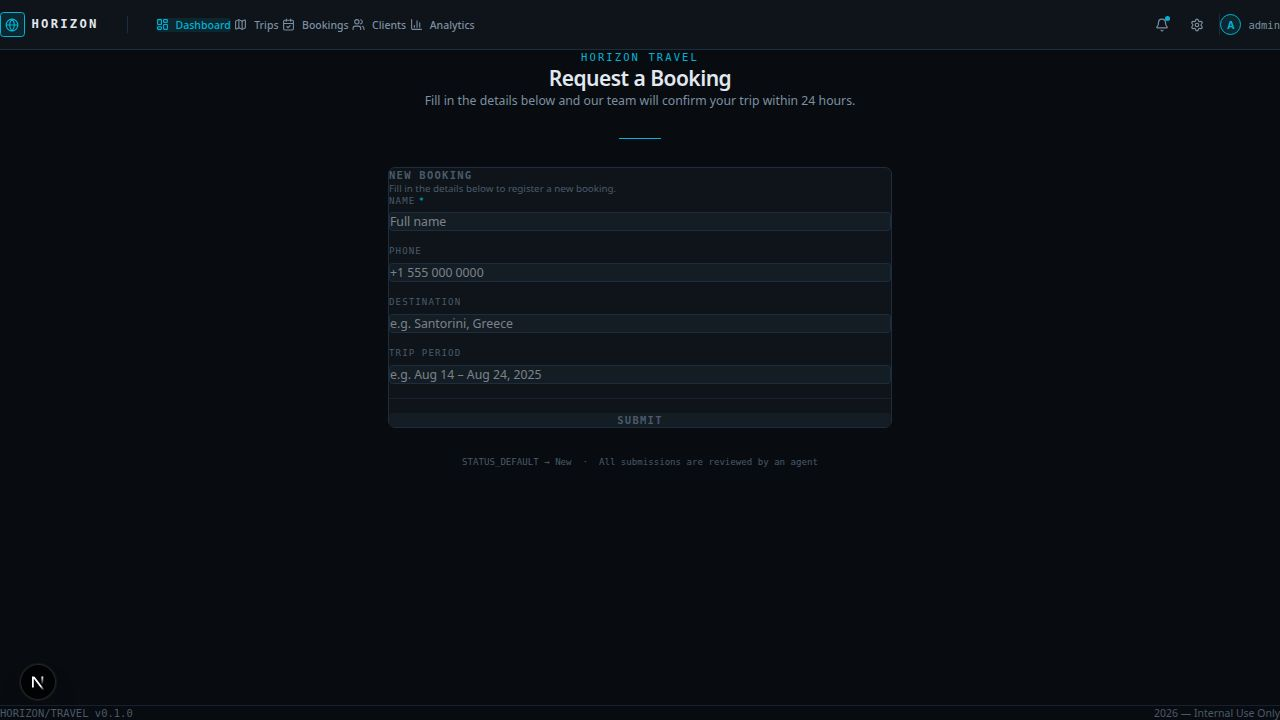
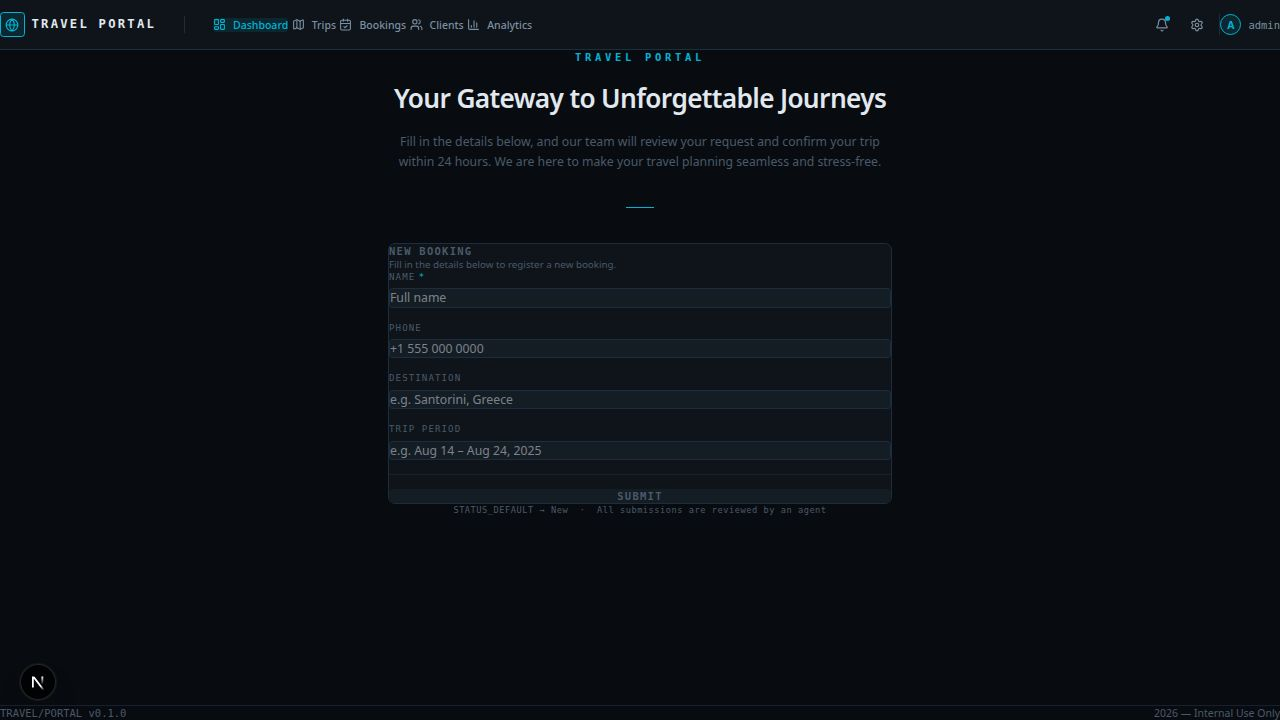
Ensure the application loads directly to the dashboard and fix workflow issues
Add the missing `_not-found/page` route to the build manifest and update cache hashes to resolve application loading and workflow errors.

Replit-Commit-Author: Agent
Replit-Commit-Session-Id: 0fe00be1-4f11-4a60-8181-e56c559750af
Replit-Commit-Checkpoint-Type: full_checkpoint
Replit-Commit-Event-Id: ce4cdc06-059d-438c-85b4-8cf6e5ef69f5
Replit-Commit-Screenshot-Url: https://storage.googleapis.com/screenshot-production-us-central1/ad40acbe-b18b-48dc-98ba-85900373a7f5/0fe00be1-4f11-4a60-8181-e56c559750af/n5spYEi

diff --git a/artifacts/travel-agency/.next/static/chunks/app/_not-found/page.js b/artifacts/travel-agency/.next/static/chunks/app/_not-found/page.js
@@ -1,0 +1,61 @@
+/*
+ * ATTENTION: An "eval-source-map" devtool has been used.
+ * This devtool is neither made for production nor for readable output files.
+ * It uses "eval()" calls to create a separate source file with attached SourceMaps in the browser devtools.
+ * If you are trying to read the output file, select a different devtool (https://webpack.js.org/configuration/devtool/)
+ * or disable the default devtool with "devtool: false".
+ * If you are looking for production-ready output files, see mode: "production" (https://webpack.js.org/configuration/mode/).
+ */
+(self["webpackChunk_N_E"] = self["webpackChunk_N_E"] || []).push([["app/_not-found/page"],{
+
+/***/ "(app-pages-browser)/../../node_modules/.pnpm/next@15.5.19_react-dom@19.1.0_react@19.1.0__react@19.1.0/node_modules/next/dist/build/webpack/loaders/next-client-pages-loader.js?absolutePagePath=%2Fhome%2Frunner%2Fworkspace%2Fnode_modules%2F.pnpm%2Fnext%4015.5.19_react-dom%4019.1.0_react%4019.1.0__react%4019.1.0%2Fnode_modules%2Fnext%2Fdist%2Fclient%2Fcomponents%2Fbuiltin%2Fglobal-not-found.js&page=%2F_not-found%2Fpage!":
+/*!************************************************************************************************************************************************************************************************************************************************************************************************************************************************************************************************************************!*\
+  !*** ../../node_modules/.pnpm/next@15.5.19_react-dom@19.1.0_react@19.1.0__react@19.1.0/node_modules/next/dist/build/webpack/loaders/next-client-pages-loader.js?absolutePagePath=%2Fhome%2Frunner%2Fworkspace%2Fnode_modules%2F.pnpm%2Fnext%4015.5.19_react-dom%4019.1.0_react%4019.1.0__react%4019.1.0%2Fnode_modules%2Fnext%2Fdist%2Fclient%2Fcomponents%2Fbuiltin%2Fglobal-not-found.js&page=%2F_not-found%2Fpage! ***!
+  \************************************************************************************************************************************************************************************************************************************************************************************************************************************************************************************************************************/
+/***/ ((module, __unused_webpack_exports, __webpack_require__) => {
+
[1 lines of base64/hex data omitted]
+
+/***/ }),
+
+/***/ "(app-pages-browser)/../../node_modules/.pnpm/next@15.5.19_react-dom@19.1.0_react@19.1.0__react@19.1.0/node_modules/next/dist/client/components/builtin/global-not-found.js":
+/*!**************************************************************************************************************************************************************!*\
+  !*** ../../node_modules/.pnpm/next@15.5.19_react-dom@19.1.0_react@19.1.0__react@19.1.0/node_modules/next/dist/client/components/builtin/global-not-found.js ***!
+  \**************************************************************************************************************************************************************/
+/***/ ((module, exports, __webpack_require__) => {
+
+"use strict";
[1 lines of base64/hex data omitted]
+
+/***/ }),
+
+/***/ "(app-pages-browser)/../../node_modules/.pnpm/next@15.5.19_react-dom@19.1.0_react@19.1.0__react@19.1.0/node_modules/next/dist/client/components/http-access-fallback/error-fallback.js":
+/*!*************************************************************************************************************************************************************************!*\
+  !*** ../../node_modules/.pnpm/next@15.5.19_react-dom@19.1.0_react@19.1.0__react@19.1.0/node_modules/next/dist/client/components/http-access-fallback/error-fallback.js ***!
+  \*************************************************************************************************************************************************************************/
+/***/ ((module, exports, __webpack_require__) => {
+
+"use strict";
[1 lines of base64/hex data omitted]
+
+/***/ }),
+
+/***/ "(app-pages-browser)/../../node_modules/.pnpm/next@15.5.19_react-dom@19.1.0_react@19.1.0__react@19.1.0/node_modules/next/dist/client/components/styles/access-error-styles.js":
+/*!****************************************************************************************************************************************************************!*\
+  !*** ../../node_modules/.pnpm/next@15.5.19_react-dom@19.1.0_react@19.1.0__react@19.1.0/node_modules/next/dist/client/components/styles/access-error-styles.js ***!
+  \****************************************************************************************************************************************************************/
+/***/ ((module, exports, __webpack_require__) => {
+
+"use strict";
[1 lines of base64/hex data omitted]
+
+/***/ })
+
+},
+/******/ __webpack_require__ => { // webpackRuntimeModules
+/******/ var __webpack_exec__ = (moduleId) => (__webpack_require__(__webpack_require__.s = moduleId))
+/******/ __webpack_require__.O(0, ["main-app"], () => (__webpack_exec__("(app-pages-browser)/../../node_modules/.pnpm/next@15.5.19_react-dom@19.1.0_react@19.1.0__react@19.1.0/node_modules/next/dist/build/webpack/loaders/next-client-pages-loader.js?absolutePagePath=%2Fhome%2Frunner%2Fworkspace%2Fnode_modules%2F.pnpm%2Fnext%4015.5.19_react-dom%4019.1.0_react%4019.1.0__react%4019.1.0%2Fnode_modules%2Fnext%2Fdist%2Fclient%2Fcomponents%2Fbuiltin%2Fglobal-not-found.js&page=%2F_not-found%2Fpage!")));
+/******/ var __webpack_exports__ = __webpack_require__.O();
+/******/ _N_E = __webpack_exports__;
+/******/ }
+]);

diff --git a/artifacts/travel-agency/.next/static/webpack/app/layout.33d17cfd87281c41.hot-update.js b/artifacts/travel-agency/.next/static/webpack/app/layout.33d17cfd87281c41.hot-update.js
@@ -1,0 +1,22 @@
+"use strict";
+/*
+ * ATTENTION: An "eval-source-map" devtool has been used.
+ * This devtool is neither made for production nor for readable output files.
+ * It uses "eval()" calls to create a separate source file with attached SourceMaps in the browser devtools.
+ * If you are trying to read the output file, select a different devtool (https://webpack.js.org/configuration/devtool/)
+ * or disable the default devtool with "devtool: false".
+ * If you are looking for production-ready output files, see mode: "production" (https://webpack.js.org/configuration/mode/).
+ */
+self["webpackHotUpdate_N_E"]("app/layout",{
+
+/***/ "(app-pages-browser)/./app/globals.css":
+/*!*************************!*\
+  !*** ./app/globals.css ***!
+  \*************************/
+/***/ ((module, __webpack_exports__, __webpack_require__) => {
+
[1 lines of base64/hex data omitted]
+
+/***/ })
+
+});

diff --git a/artifacts/travel-agency/.next/static/webpack/webpack.33d17cfd87281c41.hot-update.js b/artifacts/travel-agency/.next/static/webpack/webpack.33d17cfd87281c41.hot-update.js
@@ -1,0 +1,12 @@
+"use strict";
+self["webpackHotUpdate_N_E"]("webpack",{},
+/******/ function(__webpack_require__) { // webpackRuntimeModules
+/******/ /* webpack/runtime/getFullHash */
+/******/ (() => {
+/******/ 	__webpack_require__.h = () => ("95a952b913b8a0d8")
+/******/ })();
+/******/ 
+/******/ }
+)
[1 lines of base64/hex data omitted]
+;

diff --git a/artifacts/travel-agency/.next/server/webpack-runtime.js b/artifacts/travel-agency/.next/server/webpack-runtime.js
@@ -117,7 +117,7 @@
 /******/ 	
 /******/ 	/* webpack/runtime/getFullHash */
 /******/ 	(() => {
-/******/ 		__webpack_require__.h = () => ("e7346cf729319479")
+/******/ 		__webpack_require__.h = () => ("49ed8f3984db7e68")
 /******/ 	})();
 /******/ 	
 /******/ 	/* webpack/runtime/hasOwnProperty shorthand */
@@ -205,5 +205,5 @@
 /******/ 	
 /******/ })()
 
[2 lines of base64/hex data omitted]
 ;

diff --git a/artifacts/travel-agency/.next/server/app/page.js b/artifacts/travel-agency/.next/server/app/page.js
@@ -310,7 +310,7 @@ module.exports = require("util");
 var __webpack_require__ = require("../webpack-runtime.js");
 __webpack_require__.C(exports);
 var __webpack_exec__ = (moduleId) => (__webpack_require__(__webpack_require__.s = moduleId))
-var __webpack_exports__ = __webpack_require__.X(0, ["vendor-chunks/next@15.5.19_react-dom@19.1.0_react@19.1.0__react@19.1.0","vendor-chunks/lucide-react@0.545.0_react@19.1.0","vendor-chunks/@swc+helpers@0.5.15","vendor-chunks/tailwind-merge@3.6.0","vendor-chunks/clsx@2.1.1"], () => (__webpack_exec__("(rsc)/../../node_modules/.pnpm/next@15.5.19_react-dom@19.1.0_react@19.1.0__react@19.1.0/node_modules/next/dist/build/webpack/loaders/next-app-loader/index.js?name=app%2Fpage&page=%2Fpage&appPaths=%2Fpage&pagePath=private-next-app-dir%2Fpage.tsx&appDir=%2Fhome%2Frunner%2Fworkspace%2Fartifacts%2Ftravel-agency%2Fapp&pageExtensions=tsx&pageExtensions=ts&pageExtensions=jsx&pageExtensions=js&rootDir=%2Fhome%2Frunner%2Fworkspace%2Fartifacts%2Ftravel-agency&isDev=true&tsconfigPath=tsconfig.json&basePath=&assetPrefix=&nextConfigOutput=standalone&preferredRegion=&middlewareConfig=e30%3D&isGlobalNotFoundEnabled=!")));
+var __webpack_exports__ = __webpack_require__.X(0, ["vendor-chunks/next@15.5.19_react-dom@19.1.0_react@19.1.0__react@19.1.0","vendor-chunks/tailwind-merge@3.6.0","vendor-chunks/lucide-react@0.545.0_react@19.1.0","vendor-chunks/@swc+helpers@0.5.15","vendor-chunks/clsx@2.1.1"], () => (__webpack_exec__("(rsc)/../../node_modules/.pnpm/next@15.5.19_react-dom@19.1.0_react@19.1.0__react@19.1.0/node_modules/next/dist/build/webpack/loaders/next-app-loader/index.js?name=app%2Fpage&page=%2Fpage&appPaths=%2Fpage&pagePath=private-next-app-dir%2Fpage.tsx&appDir=%2Fhome%2Frunner%2Fworkspace%2Fartifacts%2Ftravel-agency%2Fapp&pageExtensions=tsx&pageExtensions=ts&pageExtensions=jsx&pageExtensions=js&rootDir=%2Fhome%2Frunner%2Fworkspace%2Fartifacts%2Ftravel-agency&isDev=true&tsconfigPath=tsconfig.json&basePath=&assetPrefix=&nextConfigOutput=standalone&preferredRegion=&middlewareConfig=e30%3D&isGlobalNotFoundEnabled=!")));
 module.exports = __webpack_exports__;
 
 })();

diff --git a/artifacts/travel-agency/.next/static/chunks/app/layout.js b/artifacts/travel-agency/.next/static/chunks/app/layout.js
@@ -289,7 +289,7 @@ eval(__webpack_require__.ts("__webpack_require__.r(__webpack_exports__);\n/* har
 /***/ ((module, __webpack_exports__, __webpack_require__) => {
 
 "use strict";
[2 lines of base64/hex data omitted]
 
 /***/ }),
 

diff --git a/artifacts/travel-agency/.next/server/app/_not-found/page_client-reference-manifest.js b/artifacts/travel-agency/.next/server/app/_not-found/page_client-reference-manifest.js
@@ -1,0 +1,1 @@
+globalThis.__RSC_MANIFEST=(globalThis.__RSC_MANIFEST||{});globalThis.__RSC_MANIFEST["/_not-found/page"]={"moduleLoading":{"prefix":"/_next/"},"ssrModuleMapping":{"(app-pages-browser)/./components/Navigation.tsx":{"*":{"id":"(ssr)/./components/Navigation.tsx","name":"*","chunks":[],"async":false}},"(app-pages-browser)/./components/BookingForm.tsx":{"*":{"id":"(ssr)/./components/BookingForm.tsx","name":"*","chunks":[],"async":false}},"(app-pages-browser)/../../node_modules/.pnpm/next@15.5.19_react-dom@19.1.0_react@19.1.0__react@19.1.0/node_modules/next/dist/client/components/builtin/global-error.js":{"*":{"id":"(ssr)/../../node_modules/.pnpm/next@15.5.19_react-dom@19.1.0_react@19.1.0__react@19.1.0/node_modules/next/dist/client/components/builtin/global-error.js","name":"*","chunks":[],"async":false}},"(app-pages-browser)/../../node_modules/.pnpm/next@15.5.19_react-dom@19.1.0_react@19.1.0__react@19.1.0/node_modules/next/dist/client/components/client-page.js":{"*":{"id":"(ssr)/../../node_modules/.pnpm/next@15.5.19_react-dom@19.1.0_react@19.1.0__react@19.1.0/node_modules/next/dist/client/components/client-page.js","name":"*","chunks":[],"async":false}},"(app-pages-browser)/../../node_modules/.pnpm/next@15.5.19_react-dom@19.1.0_react@19.1.0__react@19.1.0/node_modules/next/dist/client/components/client-segment.js":{"*":{"id":"(ssr)/../../node_modules/.pnpm/next@15.5.19_react-dom@19.1.0_react@19.1.0__react@19.1.0/node_modules/next/dist/client/components/client-segment.js","name":"*","chunks":[],"async":false}},"(app-pages-browser)/../../node_modules/.pnpm/next@15.5.19_react-dom@19.1.0_react@19.1.0__react@19.1.0/node_modules/next/dist/client/components/http-access-fallback/error-boundary.js":{"*":{"id":"(ssr)/../../node_modules/.pnpm/next@15.5.19_react-dom@19.1.0_react@19.1.0__react@19.1.0/node_modules/next/dist/client/components/http-access-fallback/error-boundary.js","name":"*","chunks":[],"async":false}},"(app-pages-browser)/../../node_modules/.pnpm/next@15.5.19_react-dom@19.1.0_react@19.1.0__react@19.1.0/node_modules/next/dist/client/components/layout-router.js":{"*":{"id":"(ssr)/../../node_modules/.pnpm/next@15.5.19_react-dom@19.1.0_react@19.1.0__react@19.1.0/node_modules/next/dist/client/components/layout-router.js","name":"*","chunks":[],"async":false}},"(app-pages-browser)/../../node_modules/.pnpm/next@15.5.19_react-dom@19.1.0_react@19.1.0__react@19.1.0/node_modules/next/dist/client/components/metadata/async-metadata.js":{"*":{"id":"(ssr)/../../node_modules/.pnpm/next@15.5.19_react-dom@19.1.0_react@19.1.0__react@19.1.0/node_modules/next/dist/client/components/metadata/async-metadata.js","name":"*","chunks":[],"async":false}},"(app-pages-browser)/../../node_modules/.pnpm/next@15.5.19_react-dom@19.1.0_react@19.1.0__react@19.1.0/node_modules/next/dist/client/components/render-from-template-context.js":{"*":{"id":"(ssr)/../../node_modules/.pnpm/next@15.5.19_react-dom@19.1.0_react@19.1.0__react@19.1.0/node_modules/next/dist/client/components/render-from-template-context.js","name":"*","chunks":[],"async":false}},"(app-pages-browser)/../../node_modules/.pnpm/next@15.5.19_react-dom@19.1.0_react@19.1.0__react@19.1.0/node_modules/next/dist/lib/framework/boundary-components.js":{"*":{"id":"(ssr)/../../node_modules/.pnpm/next@15.5.19_react-dom@19.1.0_react@19.1.0__react@19.1.0/node_modules/next/dist/lib/framework/boundary-components.js","name":"*","chunks":[],"async":false}},"(app-pages-browser)/../../node_modules/.pnpm/next@15.5.19_react-dom@19.1.0_react@19.1.0__react@19.1.0/node_modules/next/dist/lib/metadata/generate/icon-mark.js":{"*":{"id":"(ssr)/../../node_modules/.pnpm/next@15.5.19_react-dom@19.1.0_react@19.1.0__react@19.1.0/node_modules/next/dist/lib/metadata/generate/icon-mark.js","name":"*","chunks":[],"async":false}},"(app-pages-browser)/../../node_modules/.pnpm/next@15.5.19_react-dom@19.1.0_react@19.1.0__react@19.1.0/node_modules/next/dist/next-devtools/userspace/app/segment-explorer-node.js":{"*":{"id":"(ssr)/../../node_modules/.pnpm/next@15.5.19_react-dom@19.1.0_react@19.1.0__react@19.1.0/node_modules/next/dist/next-devtools/userspace/app/segment-explorer-node.js","name":"*","chunks":[],"async":false}}},"edgeSSRModuleMapping":{},"clientModules":{"/home/runner/workspace/artifacts/travel-agency/app/globals.css":{"id":"(app-pages-browser)/./app/globals.css","name":"*","chunks":["app/layout","static/chunks/app/layout.js"],"async":false},"/home/runner/workspace/artifacts/travel-agency/components/Navigation.tsx":{"id":"(app-pages-browser)/./components/Navigation.tsx","name":"*","chunks":["app/layout","static/chunks/app/layout.js"],"async":false},"/home/runner/workspace/artifacts/travel-agency/components/BookingForm.tsx":{"id":"(app-pages-browser)/./components/BookingForm.tsx","name":"*","chunks":["app/page","static/chunks/app/page.js"],"async":false},"/home/runner/workspace/node_modules/.pnpm/next@15.5.19_react-dom@19.1.0_react@19.1.0__react@19.1.0/node_modules/next/dist/client/components/builtin/global-error.js":{"id":"(app-pages-browser)/../../node_modules/.pnpm/next@15.5.19_react-dom@19.1.0_react@19.1.0__react@19.1.0/node_modules/next/dist/client/components/builtin/global-error.js","name":"*","chunks":["app-pages-internals","static/chunks/app-pages-internals.js"],"async":false},"/home/runner/workspace/node_modules/.pnpm/next@15.5.19_react-dom@19.1.0_react@19.1.0__react@19.1.0/node_modules/next/dist/esm/client/components/builtin/global-error.js":{"id":"(app-pages-browser)/../../node_modules/.pnpm/next@15.5.19_react-dom@19.1.0_react@19.1.0__react@19.1.0/node_modules/next/dist/client/components/builtin/global-error.js","name":"*","chunks":["app-pages-internals","static/chunks/app-pages-internals.js"],"async":false},"/home/runner/workspace/node_modules/.pnpm/next@15.5.19_react-dom@19.1.0_react@19.1.0__react@19.1.0/node_modules/next/dist/client/components/client-page.js":{"id":"(app-pages-browser)/../../node_modules/.pnpm/next@15.5.19_react-dom@19.1.0_react@19.1.0__react@19.1.0/node_modules/next/dist/client/components/client-page.js","name":"*","chunks":["app-pages-internals","static/chunks/app-pages-internals.js"],"async":false},"/home/runner/workspace/node_modules/.pnpm/next@15.5.19_react-dom@19.1.0_react@19.1.0__react@19.1.0/node_modules/next/dist/esm/client/components/client-page.js":{"id":"(app-pages-browser)/../../node_modules/.pnpm/next@15.5.19_react-dom@19.1.0_react@19.1.0__react@19.1.0/node_modules/next/dist/client/components/client-page.js","name":"*","chunks":["app-pages-internals","static/chunks/app-pages-internals.js"],"async":false},"/home/runner/workspace/node_modules/.pnpm/next@15.5.19_react-dom@19.1.0_react@19.1.0__react@19.1.0/node_modules/next/dist/client/components/client-segment.js":{"id":"(app-pages-browser)/../../node_modules/.pnpm/next@15.5.19_react-dom@19.1.0_react@19.1.0__react@19.1.0/node_modules/next/dist/client/components/client-segment.js","name":"*","chunks":["app-pages-internals","static/chunks/app-pages-internals.js"],"async":false},"/home/runner/workspace/node_modules/.pnpm/next@15.5.19_react-dom@19.1.0_react@19.1.0__react@19.1.0/node_modules/next/dist/esm/client/components/client-segment.js":{"id":"(app-pages-browser)/../../node_modules/.pnpm/next@15.5.19_react-dom@19.1.0_react@19.1.0__react@19.1.0/node_modules/next/dist/client/components/client-segment.js","name":"*","chunks":["app-pages-internals","static/chunks/app-pages-internals.js"],"async":false},"/home/runner/workspace/node_modules/.pnpm/next@15.5.19_react-dom@19.1.0_react@19.1.0__react@19.1.0/node_modules/next/dist/client/components/http-access-fallback/error-boundary.js":{"id":"(app-pages-browser)/../../node_modules/.pnpm/next@15.5.19_react-dom@19.1.0_react@19.1.0__react@19.1.0/node_modules/next/dist/client/components/http-access-fallback/error-boundary.js","name":"*","chunks":["app-pages-internals","static/chunks/app-pages-internals.js"],"async":false},"/home/runner/workspace/node_modules/.pnpm/next@15.5.19_react-dom@19.1.0_react@19.1.0__react@19.1.0/node_modules/next/dist/esm/client/components/http-access-fallback/error-boundary.js":{"id":"(app-pages-browser)/../../node_modules/.pnpm/next@15.5.19_react-dom@19.1.0_react@19.1.0__react@19.1.0/node_modules/next/dist/client/components/http-access-fallback/error-boundary.js","name":"*","chunks":["app-pages-internals","static/chunks/app-pages-internals.js"],"async":false},"/home/runner/workspace/node_modules/.pnpm/next@15.5.19_react-dom@19.1.0_react@19.1.0__react@19.1.0/node_modules/next/dist/client/components/layout-router.js":{"id":"(app-pages-browser)/../../node_modules/.pnpm/next@15.5.19_react-dom@19.1.0_react@19.1.0__react@19.1.0/node_modules/next/dist/client/components/layout-router.js","name":"*","chunks":["app-pages-internals","static/chunks/app-pages-internals.js"],"async":false},"/home/runner/workspace/node_modules/.pnpm/next@15.5.19_react-dom@19.1.0_react@19.1.0__react@19.1.0/node_modules/next/dist/esm/client/components/layout-router.js":{"id":"(app-pages-browser)/../../node_modules/.pnpm/next@15.5.19_react-dom@19.1.0_react@19.1.0__react@19.1.0/node_modules/next/dist/client/components/layout-router.js","name":"*","chunks":["app-pages-internals","static/chunks/app-pages-internals.js"],"async":false},"/home/runner/workspace/node_modules/.pnpm/next@15.5.19_react-dom@19.1.0_react@19.1.0__react@19.1.0/node_modules/next/dist/client/components/metadata/async-metadata.js":{"id":"(app-pages-browser)/../../node_modules/.pnpm/next@15.5.19_react-dom@19.1.0_react@19.1.0__react@19.1.0/node_modules/next/dist/client/components/metadata/async-metadata.js","name":"*","chunks":["app-pages-internals","static/chunks/app-pages-internals.js"],"async":false},"/home/runner/workspace/node_modules/.pnpm/next@15.5.19_react-dom@19.1.0_react@19.1.0__react@19.1.0/node_modules/next/dist/esm/client/components/metadata/async-metadata.js":{"id":"(app-pages-browser)/../../node_modules/.pnpm/next@15.5.19_react-dom@19.1.0_react@19.1.0__react@19.1.0/node_modules/next/dist/client/components/metadata/async-metadata.js","name":"*","chunks":["app-pages-internals","static/chunks/app-pages-internals.js"],"async":false},"/home/runner/workspace/node_modules/.pnpm/next@15.5.19_react-dom@19.1.0_react@19.1.0__react@19.1.0/node_modules/next/dist/client/components/render-from-template-context.js":{"id":"(app-pages-browser)/../../node_modules/.pnpm/next@15.5.19_react-dom@19.1.0_react@19.1.0__react@19.1.0/node_modules/next/dist/client/components/render-from-template-context.js","name":"*","chunks":["app-pages-internals","static/chunks/app-pages-internals.js"],"async":false},"/home/runner/workspace/node_modules/.pnpm/next@15.5.19_react-dom@19.1.0_react@19.1.0__react@19.1.0/node_modules/next/dist/esm/client/components/render-from-template-context.js":{"id":"(app-pages-browser)/../../node_modules/.pnpm/next@15.5.19_react-dom@19.1.0_react@19.1.0__react@19.1.0/node_modules/next/dist/client/components/render-from-template-context.js","name":"*","chunks":["app-pages-internals","static/chunks/app-pages-internals.js"],"async":false},"/home/runner/workspace/node_modules/.pnpm/next@15.5.19_react-dom@19.1.0_react@19.1.0__react@19.1.0/node_modules/next/dist/lib/framework/boundary-components.js":{"id":"(app-pages-browser)/../../node_modules/.pnpm/next@15.5.19_react-dom@19.1.0_react@19.1.0__react@19.1.0/node_modules/next/dist/lib/framework/boundary-components.js","name":"*","chunks":["app-pages-internals","static/chunks/app-pages-internals.js"],"async":false},"/home/runner/workspace/node_modules/.pnpm/next@15.5.19_react-dom@19.1.0_react@19.1.0__react@19.1.0/node_modules/next/dist/esm/lib/framework/boundary-components.js":{"id":"(app-pages-browser)/../../node_modules/.pnpm/next@15.5.19_react-dom@19.1.0_react@19.1.0__react@19.1.0/node_modules/next/dist/lib/framework/boundary-components.js","name":"*","chunks":["app-pages-internals","static/chunks/app-pages-internals.js"],"async":false},"/home/runner/workspace/node_modules/.pnpm/next@15.5.19_react-dom@19.1.0_react@19.1.0__react@19.1.0/node_modules/next/dist/lib/metadata/generate/icon-mark.js":{"id":"(app-pages-browser)/../../node_modules/.pnpm/next@15.5.19_react-dom@19.1.0_react@19.1.0__react@19.1.0/node_modules/next/dist/lib/metadata/generate/icon-mark.js","name":"*","chunks":["app-pages-internals","static/chunks/app-pages-internals.js"],"async":false},"/home/runner/workspace/node_modules/.pnpm/next@15.5.19_react-dom@19.1.0_react@19.1.0__react@19.1.0/node_modules/next/dist/esm/lib/metadata/generate/icon-mark.js":{"id":"(app-pages-browser)/../../node_modules/.pnpm/next@15.5.19_react-dom@19.1.0_react@19.1.0__react@19.1.0/node_modules/next/dist/lib/metadata/generate/icon-mark.js","name":"*","chunks":["app-pages-internals","static/chunks/app-pages-internals.js"],"async":false},"/home/runner/workspace/node_modules/.pnpm/next@15.5.19_react-dom@19.1.0_react@19.1.0__react@19.1.0/node_modules/next/dist/next-devtools/userspace/app/segment-explorer-node.js":{"id":"(app-pages-browser)/../../node_modules/.pnpm/next@15.5.19_react-dom@19.1.0_react@19.1.0__react@19.1.0/node_modules/next/dist/next-devtools/userspace/app/segment-explorer-node.js","name":"*","chunks":["app-pages-internals","static/chunks/app-pages-internals.js"],"async":false},"/home/runner/workspace/node_modules/.pnpm/next@15.5.19_react-dom@19.1.0_react@19.1.0__react@19.1.0/node_modules/next/dist/esm/next-devtools/userspace/app/segment-explorer-node.js":{"id":"(app-pages-browser)/../../node_modules/.pnpm/next@15.5.19_react-dom@19.1.0_react@19.1.0__react@19.1.0/node_modules/next/dist/next-devtools/userspace/app/segment-explorer-node.js","name":"*","chunks":["app-pages-internals","static/chunks/app-pages-internals.js"],"async":false}},"entryCSSFiles":{"/home/runner/workspace/artifacts/travel-agency/":[],"/home/runner/workspace/artifacts/travel-agency/app/layout":[{"inlined":false,"path":"static/css/app/layout.css"}],"/home/runner/workspace/artifacts/travel-agency/app/page":[],"/home/runner/workspace/artifacts/travel-agency/app/_not-found/page":[]},"rscModuleMapping":{"(app-pages-browser)/./app/globals.css":{"*":{"id":"(rsc)/./app/globals.css","name":"*","chunks":[],"async":false}},"(app-pages-browser)/./components/Navigation.tsx":{"*":{"id":"(rsc)/./components/Navigation.tsx","name":"*","chunks":[],"async":false}},"(app-pages-browser)/./components/BookingForm.tsx":{"*":{"id":"(rsc)/./components/BookingForm.tsx","name":"*","chunks":[],"async":false}},"(app-pages-browser)/../../node_modules/.pnpm/next@15.5.19_react-dom@19.1.0_react@19.1.0__react@19.1.0/node_modules/next/dist/client/components/builtin/global-error.js":{"*":{"id":"(rsc)/../../node_modules/.pnpm/next@15.5.19_react-dom@19.1.0_react@19.1.0__react@19.1.0/node_modules/next/dist/client/components/builtin/global-error.js","name":"*","chunks":[],"async":false}},"(app-pages-browser)/../../node_modules/.pnpm/next@15.5.19_react-dom@19.1.0_react@19.1.0__react@19.1.0/node_modules/next/dist/client/components/client-page.js":{"*":{"id":"(rsc)/../../node_modules/.pnpm/next@15.5.19_react-dom@19.1.0_react@19.1.0__react@19.1.0/node_modules/next/dist/client/components/client-page.js","name":"*","chunks":[],"async":false}},"(app-pages-browser)/../../node_modules/.pnpm/next@15.5.19_react-dom@19.1.0_react@19.1.0__react@19.1.0/node_modules/next/dist/client/components/client-segment.js":{"*":{"id":"(rsc)/../../node_modules/.pnpm/next@15.5.19_react-dom@19.1.0_react@19.1.0__react@19.1.0/node_modules/next/dist/client/components/client-segment.js","name":"*","chunks":[],"async":false}},"(app-pages-browser)/../../node_modules/.pnpm/next@15.5.19_react-dom@19.1.0_react@19.1.0__react@19.1.0/node_modules/next/dist/client/components/http-access-fallback/error-boundary.js":{"*":{"id":"(rsc)/../../node_modules/.pnpm/next@15.5.19_react-dom@19.1.0_react@19.1.0__react@19.1.0/node_modules/next/dist/client/components/http-access-fallback/error-boundary.js","name":"*","chunks":[],"async":false}},"(app-pages-browser)/../../node_modules/.pnpm/next@15.5.19_react-dom@19.1.0_react@19.1.0__react@19.1.0/node_modules/next/dist/client/components/layout-router.js":{"*":{"id":"(rsc)/../../node_modules/.pnpm/next@15.5.19_react-dom@19.1.0_react@19.1.0__react@19.1.0/node_modules/next/dist/client/components/layout-router.js","name":"*","chunks":[],"async":false}},"(app-pages-browser)/../../node_modules/.pnpm/next@15.5.19_react-dom@19.1.0_react@19.1.0__react@19.1.0/node_modules/next/dist/client/components/metadata/async-metadata.js":{"*":{"id":"(rsc)/../../node_modules/.pnpm/next@15.5.19_react-dom@19.1.0_react@19.1.0__react@19.1.0/node_modules/next/dist/client/components/metadata/async-metadata.js","name":"*","chunks":[],"async":false}},"(app-pages-browser)/../../node_modules/.pnpm/next@15.5.19_react-dom@19.1.0_react@19.1.0__react@19.1.0/node_modules/next/dist/client/components/render-from-template-context.js":{"*":{"id":"(rsc)/../../node_modules/.pnpm/next@15.5.19_react-dom@19.1.0_react@19.1.0__react@19.1.0/node_modules/next/dist/client/components/render-from-template-context.js","name":"*","chunks":[],"async":false}},"(app-pages-browser)/../../node_modules/.pnpm/next@15.5.19_react-dom@19.1.0_react@19.1.0__react@19.1.0/node_modules/next/dist/lib/framework/boundary-components.js":{"*":{"id":"(rsc)/../../node_modules/.pnpm/next@15.5.19_react-dom@19.1.0_react@19.1.0__react@19.1.0/node_modules/next/dist/lib/framework/boundary-components.js","name":"*","chunks":[],"async":false}},"(app-pages-browser)/../../node_modules/.pnpm/next@15.5.19_react-dom@19.1.0_react@19.1.0__react@19.1.0/node_modules/next/dist/lib/metadata/generate/icon-mark.js":{"*":{"id":"(rsc)/../../node_modules/.pnpm/next@15.5.19_react-dom@19.1.0_react@19.1.0__react@19.1.0/node_modules/next/dist/lib/metadata/generate/icon-mark.js","name":"*","chunks":[],"async":false}},"(app-pages-browser)/../../node_modules/.pnpm/next@15.5.19_react-dom@19.1.0_react@19.1.0__react@19.1.0/node_modules/next/dist/next-devtools/userspace/app/segment-explorer-node.js":{"*":{"id":"(rsc)/../../node_modules/.pnpm/next@15.5.19_react-dom@19.1.0_react@19.1.0__react@19.1.0/node_modules/next/dist/next-devtools/userspace/app/segment-explorer-node.js","name":"*","chunks":[],"async":false}}},"edgeRscModuleMapping":{"(app-pages-browser)/../../node_modules/.pnpm/next@15.5.19_react-dom@19.1.0_react@19.1.0__react@19.1.0/node_modules/next/dist/client/components/builtin/global-error.js":{"*":{"id":"(ssr)/../../node_modules/.pnpm/next@15.5.19_react-dom@19.1.0_react@19.1.0__react@19.1.0/node_modules/next/dist/client/components/builtin/global-error.js","name":"*","chunks":[],"async":false}},"(app-pages-browser)/../../node_modules/.pnpm/next@15.5.19_react-dom@19.1.0_react@19.1.0__react@19.1.0/node_modules/next/dist/client/components/client-page.js":{"*":{"id":"(ssr)/../../node_modules/.pnpm/next@15.5.19_react-dom@19.1.0_react@19.1.0__react@19.1.0/node_modules/next/dist/client/components/client-page.js","name":"*","chunks":[],"async":false}},"(app-pages-browser)/../../node_modules/.pnpm/next@15.5.19_react-dom@19.1.0_react@19.1.0__react@19.1.0/node_modules/next/dist/client/components/client-segment.js":{"*":{"id":"(ssr)/../../node_modules/.pnpm/next@15.5.19_react-dom@19.1.0_react@19.1.0__react@19.1.0/node_modules/next/dist/client/components/client-segment.js","name":"*","chunks":[],"async":false}},"(app-pages-browser)/../../node_modules/.pnpm/next@15.5.19_react-dom@19.1.0_react@19.1.0__react@19.1.0/node_modules/next/dist/client/components/http-access-fallback/error-boundary.js":{"*":{"id":"(ssr)/../../node_modules/.pnpm/next@15.5.19_react-dom@19.1.0_react@19.1.0__react@19.1.0/node_modules/next/dist/client/components/http-access-fallback/error-boundary.js","name":"*","chunks":[],"async":false}},"(app-pages-browser)/../../node_modules/.pnpm/next@15.5.19_react-dom@19.1.0_react@19.1.0__react@19.1.0/node_modules/next/dist/client/components/layout-router.js":{"*":{"id":"(ssr)/../../node_modules/.pnpm/next@15.5.19_react-dom@19.1.0_react@19.1.0__react@19.1.0/node_modules/next/dist/client/components/layout-router.js","name":"*","chunks":[],"async":false}},"(app-pages-browser)/../../node_modules/.pnpm/next@15.5.19_react-dom@19.1.0_react@19.1.0__react@19.1.0/node_modules/next/dist/client/components/metadata/async-metadata.js":{"*":{"id":"(ssr)/../../node_modules/.pnpm/next@15.5.19_react-dom@19.1.0_react@19.1.0__react@19.1.0/node_modules/next/dist/client/components/metadata/async-metadata.js","name":"*","chunks":[],"async":false}},"(app-pages-browser)/../../node_modules/.pnpm/next@15.5.19_react-dom@19.1.0_react@19.1.0__react@19.1.0/node_modules/next/dist/client/components/render-from-template-context.js":{"*":{"id":"(ssr)/../../node_modules/.pnpm/next@15.5.19_react-dom@19.1.0_react@19.1.0__react@19.1.0/node_modules/next/dist/client/components/render-from-template-context.js","name":"*","chunks":[],"async":false}},"(app-pages-browser)/../../node_modules/.pnpm/next@15.5.19_react-dom@19.1.0_react@19.1.0__react@19.1.0/node_modules/next/dist/lib/framework/boundary-components.js":{"*":{"id":"(ssr)/../../node_modules/.pnpm/next@15.5.19_react-dom@19.1.0_react@19.1.0__react@19.1.0/node_modules/next/dist/lib/framework/boundary-components.js","name":"*","chunks":[],"async":false}},"(app-pages-browser)/../../node_modules/.pnpm/next@15.5.19_react-dom@19.1.0_react@19.1.0__react@19.1.0/node_modules/next/dist/lib/metadata/generate/icon-mark.js":{"*":{"id":"(ssr)/../../node_modules/.pnpm/next@15.5.19_react-dom@19.1.0_react@19.1.0__react@19.1.0/node_modules/next/dist/lib/metadata/generate/icon-mark.js","name":"*","chunks":[],"async":false}},"(app-pages-browser)/../../node_modules/.pnpm/next@15.5.19_react-dom@19.1.0_react@19.1.0__react@19.1.0/node_modules/next/dist/next-devtools/userspace/app/segment-explorer-node.js":{"*":{"id":"(ssr)/../../node_modules/.pnpm/next@15.5.19_react-dom@19.1.0_react@19.1.0__react@19.1.0/node_modules/next/dist/next-devtools/userspace/app/segment-explorer-node.js","name":"*","chunks":[],"async":false}}}}